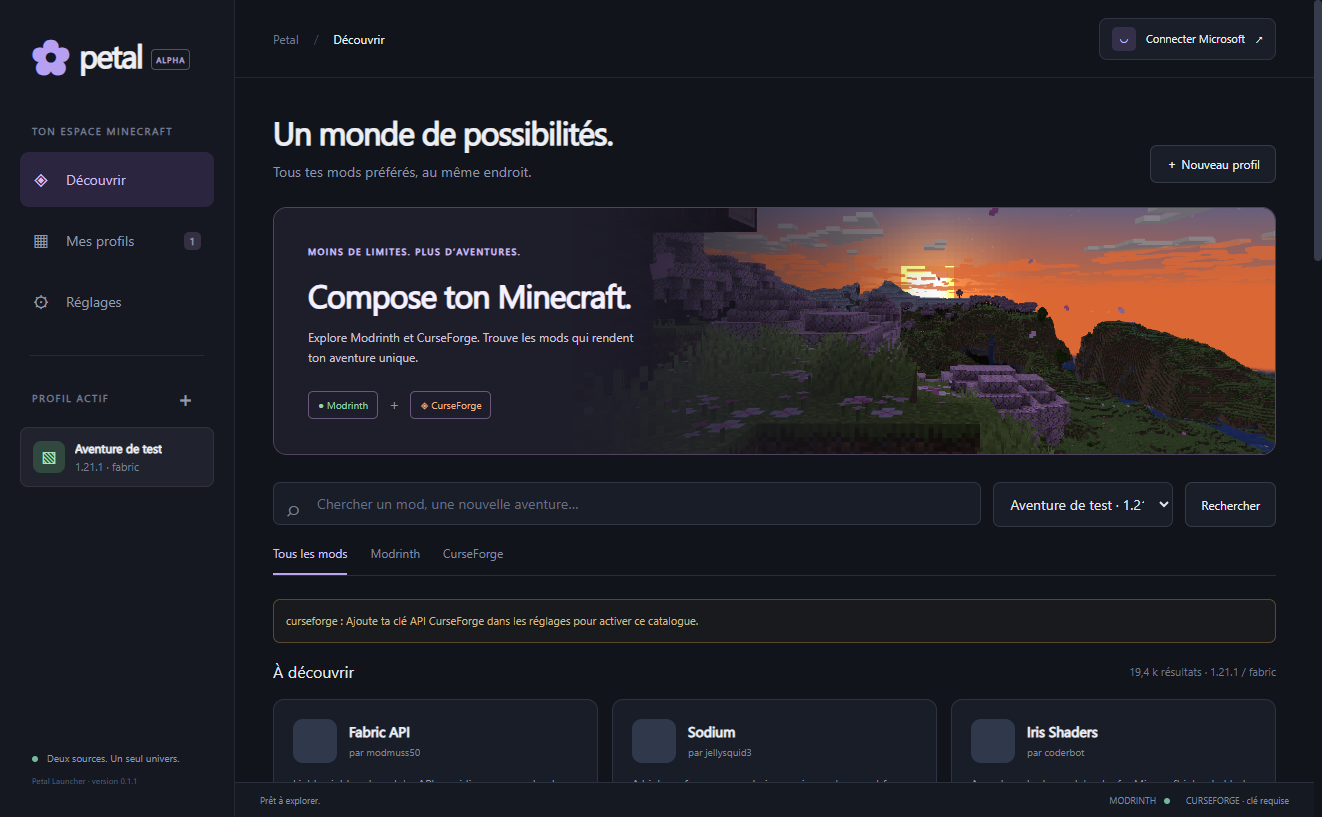
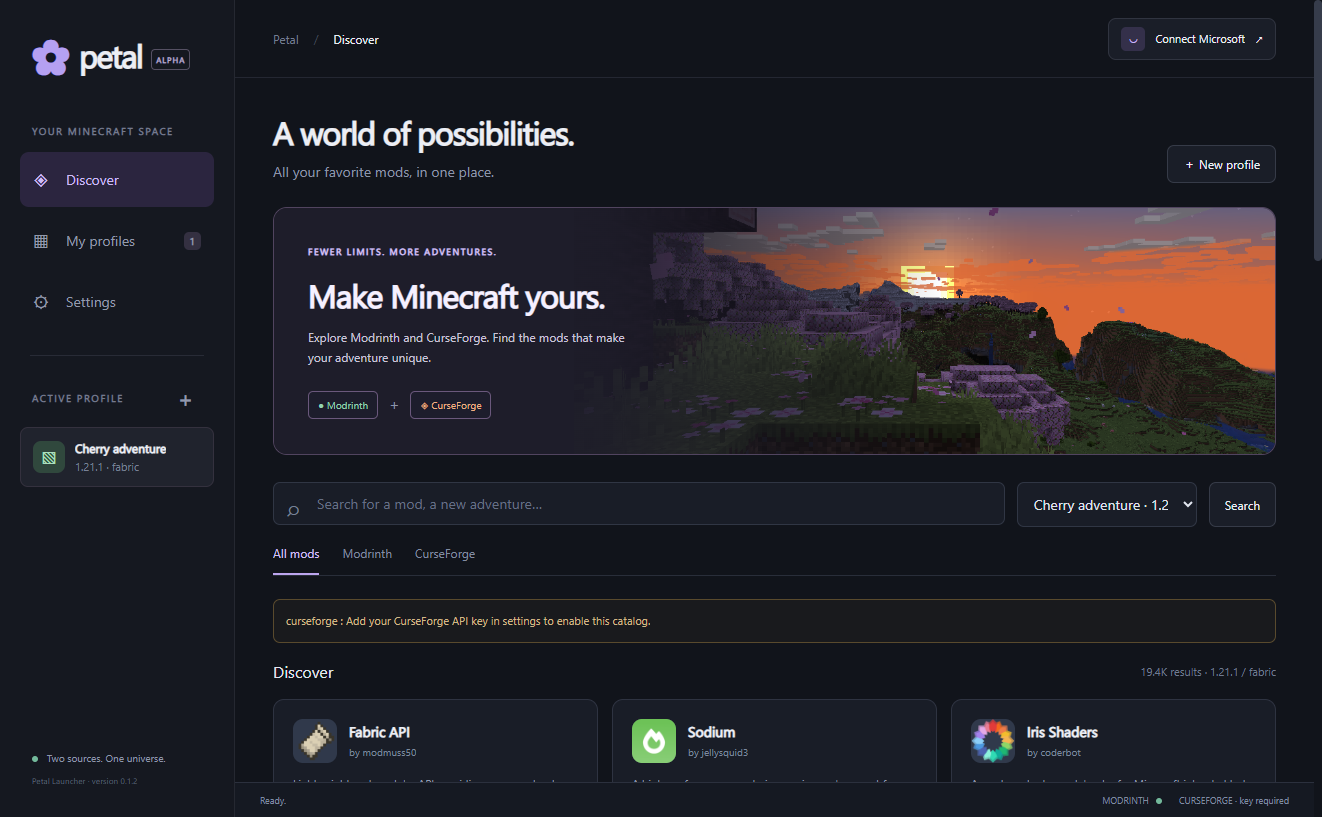
Translate Petal interface to English and refresh screenshots

diff --git a/src/renderer.js b/src/renderer.js
@@ -1,7 +1,7 @@
 const api = window.petal;
 const $ = selector => document.querySelector(selector);
 const esc = value => String(value ?? '').replace(/[&<>"']/g, c => ({ '&': '&amp;', '<': '&lt;', '>': '&gt;', '"': '&quot;', "'": '&#39;' }[c]));
-const numbers = new Intl.NumberFormat('fr', { notation: 'compact', maximumFractionDigits: 1 });
+const numbers = new Intl.NumberFormat('en', { notation: 'compact', maximumFractionDigits: 1 });
 let state = { profiles: [], settings: {}, running: [] }, view = 'discover', selected = localStorage.getItem('petal-profile'), source = 'all', query = '', offset = 0, searchGeneration = 0, busy = false, searchPending = false;
 let results = { mods: [], warnings: [], totals: {}, hasMore: false };
 const profile = () => state.profiles.find(p => p.id === selected);
@@ -11,11 +11,11 @@ async function refresh() {
   if (!profile()) selected = state.profiles[0]?.id;
   localStorage.setItem('petal-profile', selected || '');
   $('#profile-count').textContent = state.profiles.length;
-  $('#account-name').textContent = state.account?.name || 'Connecter Microsoft';
-  $('#cf-status').textContent = state.curseforgeEnabled ? 'CURSEFORGE · configuré' : 'CURSEFORGE · clé requise';
-  $('#sidebar-profiles').innerHTML = state.profiles.length ? state.profiles.map(p => `<button class="side-profile ${p.id === selected ? 'active' : ''}" data-profile="${esc(p.id)}"><span class="mini-cube">▧</span><span><strong>${esc(p.name)}</strong><small>${esc(p.version)} · ${esc(p.loader)}</small></span></button>`).join('') : '<div class="side-empty">Ton prochain monde commence par un profil.</div>';
+  $('#account-name').textContent = state.account?.name || 'Connect Microsoft';
+  $('#cf-status').textContent = state.curseforgeEnabled ? 'CURSEFORGE · configured' : 'CURSEFORGE · key required';
+  $('#sidebar-profiles').innerHTML = state.profiles.length ? state.profiles.map(p => `<button class="side-profile ${p.id === selected ? 'active' : ''}" data-profile="${esc(p.id)}"><span class="mini-cube">▧</span><span><strong>${esc(p.name)}</strong><small>${esc(p.version)} · ${esc(p.loader)}</small></span></button>`).join('') : '<div class="side-empty">Your next world starts with a profile.</div>';
   document.querySelectorAll('.nav').forEach(b => b.classList.toggle('active', b.dataset.view === view));
-  $('#breadcrumb').textContent = { discover: 'Découvrir', profiles: 'Mes profils', settings: 'Réglages' }[view];
+  $('#breadcrumb').textContent = { discover: 'Discover', profiles: 'My profiles', settings: 'Settings' }[view];
 }
 function empty(title, description, action = '') { return `<div class="empty"><div class="empty-symbol">✿</div><h2>${title}</h2><p>${description}</p>${action}</div>`; }
 function render() {
@@ -25,10 +25,10 @@ function render() {
   syncBusy();
 }
 function renderDiscover() {
-  $('#content').innerHTML = `<div class="title-row"><div><h1>Un monde de possibilités.</h1><p>Tous tes mods préférés, au même endroit.</p></div><button class="outline" data-action="create">＋ Nouveau profil</button></div>
-    <section class="hero"><div class="hero-copy"><span class="eyebrow">MOINS DE LIMITES. PLUS D’AVENTURES.</span><h2>Compose ton Minecraft.</h2><p>Explore Modrinth et CurseForge. Trouve les mods qui rendent ton aventure unique.</p><div class="source-pills"><span class="source-pill mr">● Modrinth</span><span class="subtle">＋</span><span class="source-pill cf">◈ CurseForge</span></div></div></section>
-    <form id="search-form" class="toolbar"><div class="search"><span>⌕</span><input id="search-input" type="search" value="${esc(query)}" placeholder="Chercher un mod, une nouvelle aventure…" aria-label="Rechercher des mods"></div><select id="filter-profile" aria-label="Filtrer par profil"><option value="">Toutes les versions</option>${state.profiles.map(p => `<option value="${esc(p.id)}" ${p.id === selected ? 'selected' : ''}>${esc(p.name)} · ${esc(p.version)}</option>`).join('')}</select><button class="outline" type="submit">Rechercher</button></form>
-    <div class="tabs" role="tablist" aria-label="Catalogue"><button class="tab ${source === 'all' ? 'active' : ''}" role="tab" aria-selected="${source === 'all'}" data-source="all">Tous les mods</button><button class="tab ${source === 'modrinth' ? 'active' : ''}" role="tab" aria-selected="${source === 'modrinth'}" data-source="modrinth">Modrinth</button><button class="tab ${source === 'curseforge' ? 'active' : ''}" role="tab" aria-selected="${source === 'curseforge'}" data-source="curseforge">CurseForge</button></div><div id="search-results"></div>`;
+  $('#content').innerHTML = `<div class="title-row"><div><h1>A world of possibilities.</h1><p>All your favorite mods, in one place.</p></div><button class="outline" data-action="create">＋ New profile</button></div>
+    <section class="hero"><div class="hero-copy"><span class="eyebrow">FEWER LIMITS. MORE ADVENTURES.</span><h2>Make Minecraft yours.</h2><p>Explore Modrinth and CurseForge. Find the mods that make your adventure unique.</p><div class="source-pills"><span class="source-pill mr">● Modrinth</span><span class="subtle">＋</span><span class="source-pill cf">◈ CurseForge</span></div></div></section>
+    <form id="search-form" class="toolbar"><div class="search"><span>⌕</span><input id="search-input" type="search" value="${esc(query)}" placeholder="Search for a mod, a new adventure…" aria-label="Search for mods"></div><select id="filter-profile" aria-label="Filter by profile"><option value="">All versions</option>${state.profiles.map(p => `<option value="${esc(p.id)}" ${p.id === selected ? 'selected' : ''}>${esc(p.name)} · ${esc(p.version)}</option>`).join('')}</select><button class="outline" type="submit">Search</button></form>
+    <div class="tabs" role="tablist" aria-label="Catalog"><button class="tab ${source === 'all' ? 'active' : ''}" role="tab" aria-selected="${source === 'all'}" data-source="all">All mods</button><button class="tab ${source === 'modrinth' ? 'active' : ''}" role="tab" aria-selected="${source === 'modrinth'}" data-source="modrinth">Modrinth</button><button class="tab ${source === 'curseforge' ? 'active' : ''}" role="tab" aria-selected="${source === 'curseforge'}" data-source="curseforge">CurseForge</button></div><div id="search-results"></div>`;
   $('#search-form').addEventListener('submit', e => { e.preventDefault(); query = $('#search-input').value; search(); });
   $('#filter-profile').addEventListener('change', e => { selected = e.target.value; localStorage.setItem('petal-profile', selected); search(); });
   renderResults();
@@ -39,14 +39,14 @@ function icon(mod) {
 }
 function renderResults() {
   const container = $('#search-results'); if (!container) return;
-  if (searchPending && !offset) { container.innerHTML = '<div class="loading">Exploration des catalogues…</div>'; return; }
+  if (searchPending && !offset) { container.innerHTML = '<div class="loading">Exploring the catalogs…</div>'; return; }
   const count = Object.values(results.totals).reduce((a, b) => a + b, 0);
-  container.innerHTML = `${results.warnings.length ? `<div class="warnings">${results.warnings.map(esc).join('<br>')}</div>` : ''}<div class="results-header"><strong>${query ? 'Résultats de recherche' : 'À découvrir'}</strong><span>${numbers.format(count)} résultats ${profile() ? `· ${esc(profile().version)} / ${esc(profile().loader)}` : '· toutes les versions'}</span></div>
+  container.innerHTML = `${results.warnings.length ? `<div class="warnings">${results.warnings.map(esc).join('<br>')}</div>` : ''}<div class="results-header"><strong>${query ? 'Search results' : 'Discover'}</strong><span>${numbers.format(count)} results ${profile() ? `· ${esc(profile().version)} / ${esc(profile().loader)}` : '· all versions'}</span></div>
     ${results.mods.length ? `<div class="mod-grid">${results.mods.map(m => {
       const installed = profile()?.mods.some(mod => mod.source === m.source && mod.id === m.id);
-      return `<article class="mod-card"><div class="mod-top">${icon(m)}<div><div class="mod-name">${esc(m.title)}</div><div class="author">par ${esc(m.author)}</div></div></div><p class="mod-desc">${esc(m.description)}</p><div class="mod-meta"><span>↓ ${numbers.format(m.downloads)}</span><span class="badge ${esc(m.source)}">${m.source === 'modrinth' ? 'Modrinth' : 'CurseForge'}</span></div><div class="card-actions"><button class="install-button" data-action="install" data-id="${esc(m.id)}" data-provider="${esc(m.source)}" ${installed ? 'disabled' : ''}>${installed ? '✓ Dans ce profil' : '＋ Installer'}</button><button class="icon-button" data-action="project" data-id="${esc(m.id)}" data-provider="${esc(m.source)}" aria-label="Ouvrir la page de ${esc(m.title)}">↗</button></div></article>`;
-    }).join('')}</div>` : empty('Aucun mod à afficher.', 'Essaie une autre recherche ou vérifie les messages des catalogues ci-dessus.')}
-    ${results.hasMore ? `<button class="outline load-more" data-action="more" ${searchPending ? 'disabled' : ''}>${searchPending ? 'Chargement…' : 'Afficher plus de mods'}</button>` : ''}`;
+      return `<article class="mod-card"><div class="mod-top">${icon(m)}<div><div class="mod-name">${esc(m.title)}</div><div class="author">by ${esc(m.author)}</div></div></div><p class="mod-desc">${esc(m.description)}</p><div class="mod-meta"><span>↓ ${numbers.format(m.downloads)}</span><span class="badge ${esc(m.source)}">${m.source === 'modrinth' ? 'Modrinth' : 'CurseForge'}</span></div><div class="card-actions"><button class="install-button" data-action="install" data-id="${esc(m.id)}" data-provider="${esc(m.source)}" ${installed ? 'disabled' : ''}>${installed ? '✓ In this profile' : '＋ Install'}</button><button class="icon-button" data-action="project" data-id="${esc(m.id)}" data-provider="${esc(m.source)}" aria-label="Open the project page for ${esc(m.title)}">↗</button></div></article>`;
+    }).join('')}</div>` : empty('No mods to display.', 'Try another search or check the catalog messages above.')}
+    ${results.hasMore ? `<button class="outline load-more" data-action="more" ${searchPending ? 'disabled' : ''}>${searchPending ? 'Loading…' : 'Show more mods'}</button>` : ''}`;
   syncBusy();
 }
 async function search(more = false) {
@@ -65,24 +65,24 @@ async function search(more = false) {
 }
 function renderProfiles() {
   const p = profile();
-  $('#content').innerHTML = `<div class="title-row"><div><h1>Mes univers.</h1><p>Chaque aventure a son propre espace.</p></div><button class="primary" data-action="create">Nouveau profil ＋</button></div>
-    ${state.profiles.length ? `<div class="profile-grid">${state.profiles.map(p => `<button class="profile-card ${p.id === selected ? 'selected' : ''}" data-profile="${esc(p.id)}"><span class="mini-cube">▧</span>${p.id === selected ? '<span class="tag">PROFIL ACTIF</span>' : ''}<h2>${esc(p.name)}</h2><p>Minecraft ${esc(p.version)} · ${esc(p.loader)} · ${p.mods.length} mods</p></button>`).join('')}</div>` : empty('Ton premier monde t’attend.', 'Crée un profil pour choisir ta version Minecraft, installer tes mods et lancer le jeu.', '<button class="primary" data-action="create">Créer mon premier profil</button>')}
-    ${p ? `<section class="profile-detail"><div class="detail-heading"><div><h2>${esc(p.name)}</h2><p>${esc(p.version)} · ${esc(p.loader)} ${p.loaderVersion ? esc(p.loaderVersion) : ''}</p></div><div class="detail-actions"><button class="outline" data-action="folder">Dossier ↗</button><button class="outline" data-action="prepare" data-mutation>Installer le jeu</button><button class="primary" data-action="launch" data-mutation ${state.running.includes(p.id) ? 'disabled' : ''}>${state.running.includes(p.id) ? 'Minecraft en cours' : '▶ Jouer'}</button></div></div>
-    <div class="results-header"><strong>Mods installés <span class="subtle">${p.mods.length}</span></strong><div><button class="outline" data-action="import" data-mutation>Importer un .jar</button> <button class="outline" data-action="browse">＋ Ajouter des mods</button></div></div>
-    ${p.mods.length ? p.mods.map(m => `<div class="installed-row ${m.enabled === false ? 'disabled' : ''}"><span class="mini-cube">▧</span><div class="installed-info"><strong>${esc(m.title)}</strong><small>${esc(m.versionName)}${m.enabled === false ? ' · désactivé' : ''}</small></div><span class="badge ${esc(m.source)}">${esc(m.source)}</span>${m.source !== 'local' ? `<button class="icon-button" data-action="update" data-provider="${esc(m.source)}" data-id="${esc(m.id)}" data-mutation title="Vérifier et installer la dernière version compatible">↻</button>` : ''}<button class="outline" data-action="toggle" data-provider="${esc(m.source)}" data-id="${esc(m.id)}" data-mutation>${m.enabled === false ? 'Activer' : 'Désactiver'}</button><button class="icon-button danger" data-action="remove" data-provider="${esc(m.source)}" data-id="${esc(m.id)}" data-mutation aria-label="Retirer ${esc(m.title)}">×</button></div>`).join('') : empty('Un profil plein de potentiel.', 'Ajoute des mods depuis les catalogues. Leurs dépendances requises seront installées avec eux.')}</section>` : ''}`;
+  $('#content').innerHTML = `<div class="title-row"><div><h1>My worlds.</h1><p>Every adventure has its own space.</p></div><button class="primary" data-action="create">New profile ＋</button></div>
+    ${state.profiles.length ? `<div class="profile-grid">${state.profiles.map(p => `<button class="profile-card ${p.id === selected ? 'selected' : ''}" data-profile="${esc(p.id)}"><span class="mini-cube">▧</span>${p.id === selected ? '<span class="tag">ACTIVE PROFILE</span>' : ''}<h2>${esc(p.name)}</h2><p>Minecraft ${esc(p.version)} · ${esc(p.loader)} · ${p.mods.length} ${p.mods.length === 1 ? 'mod' : 'mods'}</p></button>`).join('')}</div>` : empty('Your first world awaits.', 'Create a profile to choose your Minecraft version, install mods, and launch the game.', '<button class="primary" data-action="create">Create my first profile</button>')}
+    ${p ? `<section class="profile-detail"><div class="detail-heading"><div><h2>${esc(p.name)}</h2><p>${esc(p.version)} · ${esc(p.loader)} ${p.loaderVersion ? esc(p.loaderVersion) : ''}</p></div><div class="detail-actions"><button class="outline" data-action="folder">Folder ↗</button><button class="outline" data-action="prepare" data-mutation>Install game</button><button class="primary" data-action="launch" data-mutation ${state.running.includes(p.id) ? 'disabled' : ''}>${state.running.includes(p.id) ? 'Minecraft running' : '▶ Play'}</button></div></div>
+    <div class="results-header"><strong>Installed mods <span class="subtle">${p.mods.length}</span></strong><div><button class="outline" data-action="import" data-mutation>Import a .jar</button> <button class="outline" data-action="browse">＋ Add mods</button></div></div>
+    ${p.mods.length ? p.mods.map(m => `<div class="installed-row ${m.enabled === false ? 'disabled' : ''}"><span class="mini-cube">▧</span><div class="installed-info"><strong>${esc(m.title)}</strong><small>${esc(m.source === 'local' ? 'Manual import — compatibility not verified' : m.versionName)}${m.enabled === false ? ' · disabled' : ''}</small></div><span class="badge ${esc(m.source)}">${esc(m.source)}</span>${m.source !== 'local' ? `<button class="icon-button" data-action="update" data-provider="${esc(m.source)}" data-id="${esc(m.id)}" data-mutation title="Check for and install the latest compatible version">↻</button>` : ''}<button class="outline" data-action="toggle" data-provider="${esc(m.source)}" data-id="${esc(m.id)}" data-mutation>${m.enabled === false ? 'Enable' : 'Disable'}</button><button class="icon-button danger" data-action="remove" data-provider="${esc(m.source)}" data-id="${esc(m.id)}" data-mutation aria-label="Remove ${esc(m.title)}">×</button></div>`).join('') : empty('A profile full of possibilities.', 'Add mods from the catalogs. Required dependencies will be installed with them.')}</section>` : ''}`;
 }
 function renderSettings() {
   const s = state.settings;
-  $('#content').innerHTML = `<div class="title-row"><div><h1>À ta façon.</h1><p>Les connexions et réglages de ton launcher.</p></div></div><form id="settings-form"><div class="settings-grid">
-    <section class="panel"><span class="eyebrow">TON IDENTITÉ</span><h2>Compte Microsoft</h2><p>${state.account ? `Connecté avec ${esc(state.account.name)}.` : 'Connecte le compte qui possède Minecraft Java pour jouer.'}</p><label>Identifiant d’application Microsoft<input id="client-id" value="${esc(s.microsoftClientId)}" placeholder="xxxxxxxx-xxxx-xxxx-xxxx-xxxxxxxxxxxx"></label><small>Application personnelle Microsoft avec le retour OAuth https://login.live.com/oauth20_desktop.srf. Le README explique la configuration. Enregistre avant de te connecter.</small><div class="settings-actions"><button type="button" class="primary" data-action="login">Se connecter</button>${state.account ? '<button type="button" class="outline" data-action="logout">Déconnexion</button>' : ''}</div></section>
-    <section class="panel"><span class="eyebrow">DEUX CATALOGUES</span><h2>CurseForge</h2><p>${state.curseforgeEnabled ? 'Une clé API est enregistrée. Le catalogue est activé.' : 'Ajoute une clé API CurseForge pour réunir les deux catalogues.'}</p><label>Clé API<input id="cf-key" type="password" autocomplete="off" placeholder="${state.curseforgeEnabled ? 'Clé enregistrée — laisser vide pour conserver' : 'Ta clé CurseForge'}"></label><small>La clé reste chiffrée sur cet ordinateur. Les téléchargements indisponibles via l’API peuvent être importés manuellement au format .jar.</small><label><input id="clear-key" type="checkbox"> Retirer la clé enregistrée</label></section>
-    <section class="panel"><span class="eyebrow">PERFORMANCES</span><h2>Mémoire vive</h2><p>La mémoire maximale allouée à Minecraft.</p><label>Allocation<select id="memory">${[1024, 2048, 4096, 6144, 8192, 12288, 16384, 24576, 32768].map(n => `<option value="${n}" ${n === s.memory ? 'selected' : ''}>${n / 1024} Go</option>`).join('')}</select></label><small>4 Go constituent un point de départ. Ajuste selon tes mods et la mémoire disponible sur ton ordinateur.</small></section>
-    <section class="panel"><span class="eyebrow">ENVIRONNEMENT</span><h2>Java</h2><p>Petal installe automatiquement le Java demandé par Minecraft.</p><label>Exécutable personnalisé (facultatif)<input id="java-path" value="${esc(s.javaPath)}" placeholder="Automatique"></label><div class="settings-actions"><button type="button" class="outline" data-action="java">Choisir java.exe…</button></div><small>Données des profils : ${esc(state.root)}</small></section></div><div class="settings-actions"><button class="primary" type="submit" data-mutation>Enregistrer les réglages</button></div></form>`;
+  $('#content').innerHTML = `<div class="title-row"><div><h1>Your way.</h1><p>Connections and preferences for your launcher.</p></div></div><form id="settings-form"><div class="settings-grid">
+    <section class="panel"><span class="eyebrow">YOUR IDENTITY</span><h2>Microsoft account</h2><p>${state.account ? `Signed in as ${esc(state.account.name)}.` : 'Sign in with the account that owns Minecraft Java to play.'}</p><label>Microsoft application client ID<input id="client-id" value="${esc(s.microsoftClientId)}" placeholder="xxxxxxxx-xxxx-xxxx-xxxx-xxxxxxxxxxxx"></label><small>Use your own authorized Microsoft app with the OAuth redirect https://login.live.com/oauth20_desktop.srf. See the setup guide. Save before signing in.</small><div class="settings-actions"><button type="button" class="primary" data-action="login">Sign in</button>${state.account ? '<button type="button" class="outline" data-action="logout">Sign out</button>' : ''}</div></section>
+    <section class="panel"><span class="eyebrow">TWO CATALOGS</span><h2>CurseForge</h2><p>${state.curseforgeEnabled ? 'An API key is saved. The catalog is enabled.' : 'Add a CurseForge API key to bring both catalogs together.'}</p><label>API key<input id="cf-key" type="password" autocomplete="off" placeholder="${state.curseforgeEnabled ? 'Key saved — leave blank to keep it' : 'Your CurseForge key'}"></label><small>The key stays encrypted on this computer. Files unavailable through the API can be imported manually as .jar files.</small><label><input id="clear-key" type="checkbox"> Remove the saved key</label></section>
+    <section class="panel"><span class="eyebrow">PERFORMANCE</span><h2>Memory</h2><p>The maximum memory allocated to Minecraft.</p><label>Allocation<select id="memory">${[1024, 2048, 4096, 6144, 8192, 12288, 16384, 24576, 32768].map(n => `<option value="${n}" ${n === s.memory ? 'selected' : ''}>${n / 1024} GB</option>`).join('')}</select></label><small>4 GB is a starting point. Adjust for your mods and the memory available on your computer.</small></section>
+    <section class="panel"><span class="eyebrow">ENVIRONMENT</span><h2>Java</h2><p>Petal automatically installs the Java runtime required by Minecraft.</p><label>Custom executable (optional)<input id="java-path" value="${esc(s.javaPath)}" placeholder="Automatic"></label><div class="settings-actions"><button type="button" class="outline" data-action="java">Choose java.exe…</button></div><small>Profile data: ${esc(state.root)}</small></section></div><div class="settings-actions"><button class="primary" type="submit" data-mutation>Save settings</button></div></form>`;
   $('#settings-form').addEventListener('submit', async e => {
     e.preventDefault();
     const options = { memory: Number($('#memory').value), javaPath: $('#java-path').value, microsoftClientId: $('#client-id').value };
     if ($('#clear-key').checked) options.curseforgeKey = ''; else if ($('#cf-key').value.trim()) options.curseforgeKey = $('#cf-key').value;
-    await perform(() => api.call('saveSettings', options), 'Réglages enregistrés.');
+    await perform(() => api.call('saveSettings', options), 'Settings saved.');
   });
 }
 function syncBusy() {
@@ -94,8 +94,8 @@ function syncBusy() {
 async function perform(operation, message) {
   if (busy) return;
   busy = true; syncBusy();
-  try { await operation(); await refresh(); render(); if (message) notice(message); $('#status-text').textContent = 'Prêt.'; }
-  catch (e) { notice(e.message, true); $('#status-text').textContent = 'L’opération a échoué.'; }
+  try { await operation(); await refresh(); render(); if (message) notice(message); $('#status-text').textContent = 'Ready.'; }
+  catch (e) { notice(e.message, true); $('#status-text').textContent = 'The operation failed.'; }
   finally { busy = false; syncBusy(); }
 }
 async function changeView(next) { view = next; await refresh(); render(); if (view === 'discover') search(); }
@@ -111,16 +111,16 @@ document.addEventListener('click', async event => {
   if (action === 'browse') return changeView('discover');
   if (action === 'project') { try { await api.call('openProject', { source: b.dataset.provider, id: b.dataset.id }); } catch (e) { notice(e.message, true); } return; }
   if (action === 'java') { const chosen = await api.call('chooseJava'); if (chosen) $('#java-path').value = chosen; return; }
-  if (action === 'login' || action === 'logout') return perform(() => api.call(action), action === 'login' ? 'Compte connecté.' : 'Compte déconnecté.');
-  if (action === 'install' && !profile()) { notice('Crée ou sélectionne un profil pour installer ce mod.'); return createDialog(); }
+  if (action === 'login' || action === 'logout') return perform(() => api.call(action), action === 'login' ? 'Account connected.' : 'Account disconnected.');
+  if (action === 'install' && !profile()) { notice('Create or select a profile to install this mod.'); return createDialog(); }
   if (!profile()) return;
   const args = { profileId: selected, source: b.dataset.provider, id: b.dataset.id };
-  if (action === 'install' || action === 'update') return perform(() => api.call('install', args), 'Mod et dépendances requis installés.');
-  if (action === 'toggle' || action === 'remove') return perform(() => api.call('changeMod', { ...args, action }), action === 'remove' ? 'Mod retiré. Le fichier reste récupérable dans le dossier removed du profil.' : 'État du mod modifié.');
+  if (action === 'install' || action === 'update') return perform(() => api.call('install', args), 'Mod and required dependencies installed.');
+  if (action === 'toggle' || action === 'remove') return perform(() => api.call('changeMod', { ...args, action }), action === 'remove' ? 'Mod removed. Its file can be recovered from the profile’s removed folder.' : 'Mod state changed.');
   if (action === 'folder') return perform(() => api.call('openFolder', args));
-  if (action === 'import') return perform(() => api.call('importJar', args), 'Import terminé. Vérifie la compatibilité du fichier et ses dépendances.');
-  if (action === 'prepare') return perform(() => api.call('prepare', args), 'Minecraft et son chargeur sont installés.');
-  if (action === 'launch') return perform(() => api.call('launch', args), 'Minecraft démarre.');
+  if (action === 'import') return perform(() => api.call('importJar', args), 'Import complete. Check the file’s compatibility and dependencies.');
+  if (action === 'prepare') return perform(() => api.call('prepare', args), 'Minecraft and its mod loader are installed.');
+  if (action === 'launch') return perform(() => api.call('launch', args), 'Minecraft is starting.');
 });
 $('#sidebar-create').addEventListener('click', createDialog);
 $('#account-button').addEventListener('click', () => changeView('settings'));
@@ -128,13 +128,13 @@ $('#dismiss-notice').addEventListener('click', () => { $('#notice').hidden = tru
 $('#close-dialog').addEventListener('click', () => $('#create-dialog').close());
 $('#create-form').addEventListener('submit', async e => {
   e.preventDefault(); const submit = $('#create-form button[type="submit"]'); submit.disabled = true;
-  try { const p = await api.call('createProfile', { name: $('#profile-name').value, version: $('#profile-version').value, loader: $('#profile-loader').value }); selected = p.id; $('#create-dialog').close(); await changeView('profiles'); notice('Profil créé. Ajoute des mods ou installe le jeu.'); }
+  try { const p = await api.call('createProfile', { name: $('#profile-name').value, version: $('#profile-version').value, loader: $('#profile-loader').value }); selected = p.id; $('#create-dialog').close(); await changeView('profiles'); notice('Profile created. Add mods or install the game.'); }
   catch (e) { $('#dialog-error').textContent = e.message; }
   finally { submit.disabled = false; }
 });
 api.onEvent(async event => {
   if (event.type === 'progress') $('#status-text').textContent = event.message;
-  if (event.type === 'gameExit') { await refresh(); render(); notice(event.code ? `Minecraft s’est arrêté avec le code ${event.code}. Consulte le dossier logs du profil.` : 'Minecraft est fermé.', !!event.code); }
+  if (event.type === 'gameExit') { await refresh(); render(); notice(event.code ? `Minecraft exited with code ${event.code}. Check the profile’s logs folder.` : 'Minecraft has closed.', !!event.code); }
 });
 (async () => {
   try { await refresh(); render(); search(); const versions = await api.call('versions'); $('#minecraft-versions').innerHTML = versions.map(v => `<option value="${esc(v)}"></option>`).join(''); }

diff --git a/src/index.html b/src/index.html
@@ -1,41 +1,41 @@
 <!doctype html>
-<html lang="fr">
+<html lang="en">
 <head>
   <meta charset="UTF-8">
   <meta name="viewport" content="width=device-width, initial-scale=1">
   <meta http-equiv="Content-Security-Policy" content="default-src 'self'; script-src 'self'; style-src 'self'; img-src 'self' https://cdn.modrinth.com https://media.forgecdn.net https://mediafilez.forgecdn.net https://edge.forgecdn.net; connect-src 'none'; object-src 'none'; base-uri 'none'">
-  <title>Petal — Minecraft, à ta façon</title>
+  <title>Petal — Minecraft, your way</title>
   <link rel="stylesheet" href="style.css">
   <link rel="stylesheet" href="banner.css">
 </head>
 <body>
   <aside class="sidebar">
     <a class="brand" href="#"><span class="flower">✿</span> petal<span class="alpha">ALPHA</span></a>
-    <div class="workspace-label">TON ESPACE MINECRAFT</div>
-    <nav aria-label="Navigation principale">
-      <button class="nav active" data-view="discover"><span>◈</span> Découvrir</button>
-      <button class="nav" data-view="profiles"><span>▦</span> Mes profils <b id="profile-count">0</b></button>
-      <button class="nav" data-view="settings"><span>⚙</span> Réglages</button>
+    <div class="workspace-label">YOUR MINECRAFT SPACE</div>
+    <nav aria-label="Main navigation">
+      <button class="nav active" data-view="discover"><span>◈</span> Discover</button>
+      <button class="nav" data-view="profiles"><span>▦</span> My profiles <b id="profile-count">0</b></button>
+      <button class="nav" data-view="settings"><span>⚙</span> Settings</button>
     </nav>
     <div class="sidebar-divider"></div>
-    <div class="workspace-label profile-label">PROFIL ACTIF <button id="sidebar-create" aria-label="Créer un profil">＋</button></div>
+    <div class="workspace-label profile-label">ACTIVE PROFILE <button id="sidebar-create" aria-label="Create a profile">＋</button></div>
     <div id="sidebar-profiles"></div>
-    <div class="sidebar-bottom"><span class="status-dot"></span> Deux sources. Un seul univers.<small>Petal Launcher · version 0.1.1</small></div>
+    <div class="sidebar-bottom"><span class="status-dot"></span> Two sources. One universe.<small>Petal Launcher · version 0.1.2</small></div>
   </aside>
   <div class="shell">
-    <header class="topbar"><div><span class="crumb">Petal</span><span class="slash">/</span><span id="breadcrumb">Découvrir</span></div><button id="account-button" class="account"><span class="avatar">◡</span><span id="account-name">Connecter Microsoft</span><span>↗</span></button></header>
+    <header class="topbar"><div><span class="crumb">Petal</span><span class="slash">/</span><span id="breadcrumb">Discover</span></div><button id="account-button" class="account"><span class="avatar">◡</span><span id="account-name">Connect Microsoft</span><span>↗</span></button></header>
     <main id="content"></main>
-    <footer class="statusbar"><span id="status-text">Prêt à explorer.</span><span>MODRINTH <i class="mr-dot"></i> <span id="cf-status">CURSEFORGE · clé requise</span></span></footer>
+    <footer class="statusbar"><span id="status-text">Ready to explore.</span><span>MODRINTH <i class="mr-dot"></i> <span id="cf-status">CURSEFORGE · key required</span></span></footer>
   </div>
-  <div id="notice" class="notice" role="status" hidden><span id="notice-text"></span><button id="dismiss-notice" aria-label="Fermer le message">×</button></div>
+  <div id="notice" class="notice" role="status" hidden><span id="notice-text"></span><button id="dismiss-notice" aria-label="Dismiss message">×</button></div>
   <dialog id="create-dialog">
     <form id="create-form">
-      <div class="dialog-top"><span class="eyebrow">UN NOUVEAU DÉPART</span><button type="button" id="close-dialog" class="icon-button" aria-label="Fermer">×</button></div>
-      <h2>Crée ton univers.</h2><p>Un profil, ses mods, ses sauvegardes. Tout reste ensemble.</p>
-      <label>Nom du profil<input id="profile-name" required maxlength="60" placeholder="Mon aventure" autocomplete="off"></label>
-      <div class="form-row"><label>Version Minecraft<input id="profile-version" list="minecraft-versions" required pattern="[0-9]+\.[0-9]+(\.[0-9]+)?" value="1.21.1"><datalist id="minecraft-versions"></datalist></label><label>Chargeur<select id="profile-loader"><option value="fabric">Fabric</option><option value="forge">Forge</option><option value="neoforge">NeoForge</option></select></label></div>
+      <div class="dialog-top"><span class="eyebrow">A FRESH START</span><button type="button" id="close-dialog" class="icon-button" aria-label="Close">×</button></div>
+      <h2>Create your world.</h2><p>One profile, its mods, its saves. Everything stays together.</p>
+      <label>Profile name<input id="profile-name" required maxlength="60" placeholder="My adventure" autocomplete="off"></label>
+      <div class="form-row"><label>Minecraft version<input id="profile-version" list="minecraft-versions" required pattern="[0-9]+\.[0-9]+(\.[0-9]+)?" value="1.21.1"><datalist id="minecraft-versions"></datalist></label><label>Mod loader<select id="profile-loader"><option value="fabric">Fabric</option><option value="forge">Forge</option><option value="neoforge">NeoForge</option></select></label></div>
       <p id="dialog-error" class="error-text" role="alert"></p>
-      <button type="submit" class="primary wide">Créer le profil <span>＋</span></button>
+      <button type="submit" class="primary wide">Create profile <span>＋</span></button>
     </form>
   </dialog>
   <script src="renderer.js"></script>

diff --git a/docs/SETUP.md b/docs/SETUP.md
@@ -15,33 +15,33 @@ pnpm start
 
 Petal uses Electron with HTML, CSS, and JavaScript, and the `@xmcl` libraries
 for Minecraft installation and launch preparation. No UI compilation is needed.
-The app currently uses French interface labels.
+The app interface uses English labels.
 
 ## Create your first instance
 
-1. Choose **Nouveau profil**, a Minecraft version, and Fabric, Forge, or NeoForge.
-2. Search in **Découvrir**. The active profile filters by game version and loader.
-3. Choose **Installer** to install a mod and required dependencies from its source.
-4. In **Mes profils**, choose **Installer le jeu** to download game files, Java,
+1. Choose **New profile**, a Minecraft version, and Fabric, Forge, or NeoForge.
+2. Search in **Discover**. The active profile filters by game version and loader.
+3. Choose **Install** to install a mod and required dependencies from its source.
+4. In **My profiles**, choose **Install game** to download game files, Java,
    and the loader. The first preparation may download more than 1 GB.
-5. Configure Microsoft authentication in **Réglages**, then choose **Jouer**.
+5. Configure Microsoft authentication in **Settings**, then choose **Play**.
 
 Saves, mods, and configuration are separated per profile. You can enable,
 disable, remove, and update individual mods. Removed files are kept in the
-instance's `removed` folder. **Dossier** opens the instance, including game logs.
+instance's `removed` folder. **Folder** opens the instance, including game logs.
 
 ## CurseForge
 
 Apply for your own authorized key through the
 [official process](https://support.curseforge.com/support/solutions/articles/9000208346-about-the-curseforge-api-and-how-to-apply-for-a-key),
 and review the API terms for your intended use. Enter the key under
-**Réglages → CurseForge**. It is encrypted using Windows secure storage and is
+**Settings → CurseForge**. It is encrypted using Windows secure storage and is
 not exposed back to the renderer. A blank field preserves an existing key;
 the removal checkbox deletes it.
 
 Without a key, Modrinth remains available. A file without an API download URL
 is not downloaded automatically. Use its official project page, obtain the
-file if permitted, and use **Importer un .jar**. Manual imports require you to
+file if permitted, and use **Import a .jar**. Manual imports require you to
 check compatibility and dependencies.
 
 Authenticated CurseForge downloads have not been verified. Before wider
@@ -85,7 +85,7 @@ connection pool and three retry attempts; retries reuse verified cache files.
 pnpm dist
 ```
 
-The unsigned development build is written to `dist/Petal 0.1.1.exe`. It runs
+The unsigned development build is written to `dist/Petal 0.1.2.exe`. It runs
 without Node.js installed. Generated builds are excluded from Git.
 
 ## Checks

diff --git a/README.md b/README.md
@@ -31,10 +31,9 @@ while keeping each platform's projects and identifiers distinct. Create a
 profile, choose your Minecraft version and mod loader, and find mods that fit.
 
 The Windows alpha uses a dark interface, a violet flower identity, and a real
-Minecraft cherry-grove panorama. **The current app interface is in French;
-this repository's documentation is in English.**
+Minecraft cherry-grove panorama. **The app interface and repository documentation are in English.**
 
-> **Development preview · v0.1.1**
+> **Development preview · v0.1.2**
 > Modrinth installation and Minecraft preparation have been exercised with real
 > downloads. CurseForge requires an authorized API key. Microsoft sign-in needs
 > an approved application registration. These two authenticated paths still need
@@ -94,7 +93,7 @@ To create the Windows portable executable:
 pnpm dist
 ```
 
-The output is `dist/Petal 0.1.1.exe`. Compiled builds and installed dependencies
+The output is `dist/Petal 0.1.2.exe`. Compiled builds and installed dependencies
 are not checked into this repository. This development executable is unsigned.
 
 See the [setup guide](docs/SETUP.md) for CurseForge configuration, Microsoft

diff --git a/VERIFICATION.md b/VERIFICATION.md
@@ -42,3 +42,17 @@ The banner uses the original cherry-grove title panorama from Minecraft Java
 generated illustration was removed from application assets. Layout and text
 legibility were inspected in the actual Electron UI, and all four UI smoke
 checks passed with this banner.
+
+## Version 0.1.2 English interface
+
+All application-owned labels, accessible names, placeholders, notifications,
+validation errors, progress messages, and file-picker titles now use English.
+Number formatting uses the English locale. User-entered profile names and
+third-party catalog content are preserved.
+
+On October 5, 2026, all 13 automated tests passed with the translated error
+messages. The actual Electron UI smoke checks passed for profile creation,
+real Sodium installation, persistent settings with secure storage, and
+rejection of an unknown IPC method. Discover, Profiles, and Settings were
+visually inspected. The README screenshots were recaptured from the English
+application using isolated data in `artifacts/smoke-english`.

diff --git a/CONTRIBUTING.md b/CONTRIBUTING.md
@@ -21,8 +21,8 @@ and independent project releases are not part of the contribution process.
 6. Open a pull request against `main` in the official repository.
 
 Use English for documentation, issues, pull requests, and commit messages.
-The current application interface is French; preserve its language unless
-your proposal explicitly introduces localization.
+The application interface is English; keep new user-facing text in English
+unless your proposal explicitly introduces localization.
 
 ## Contribution rights
 
